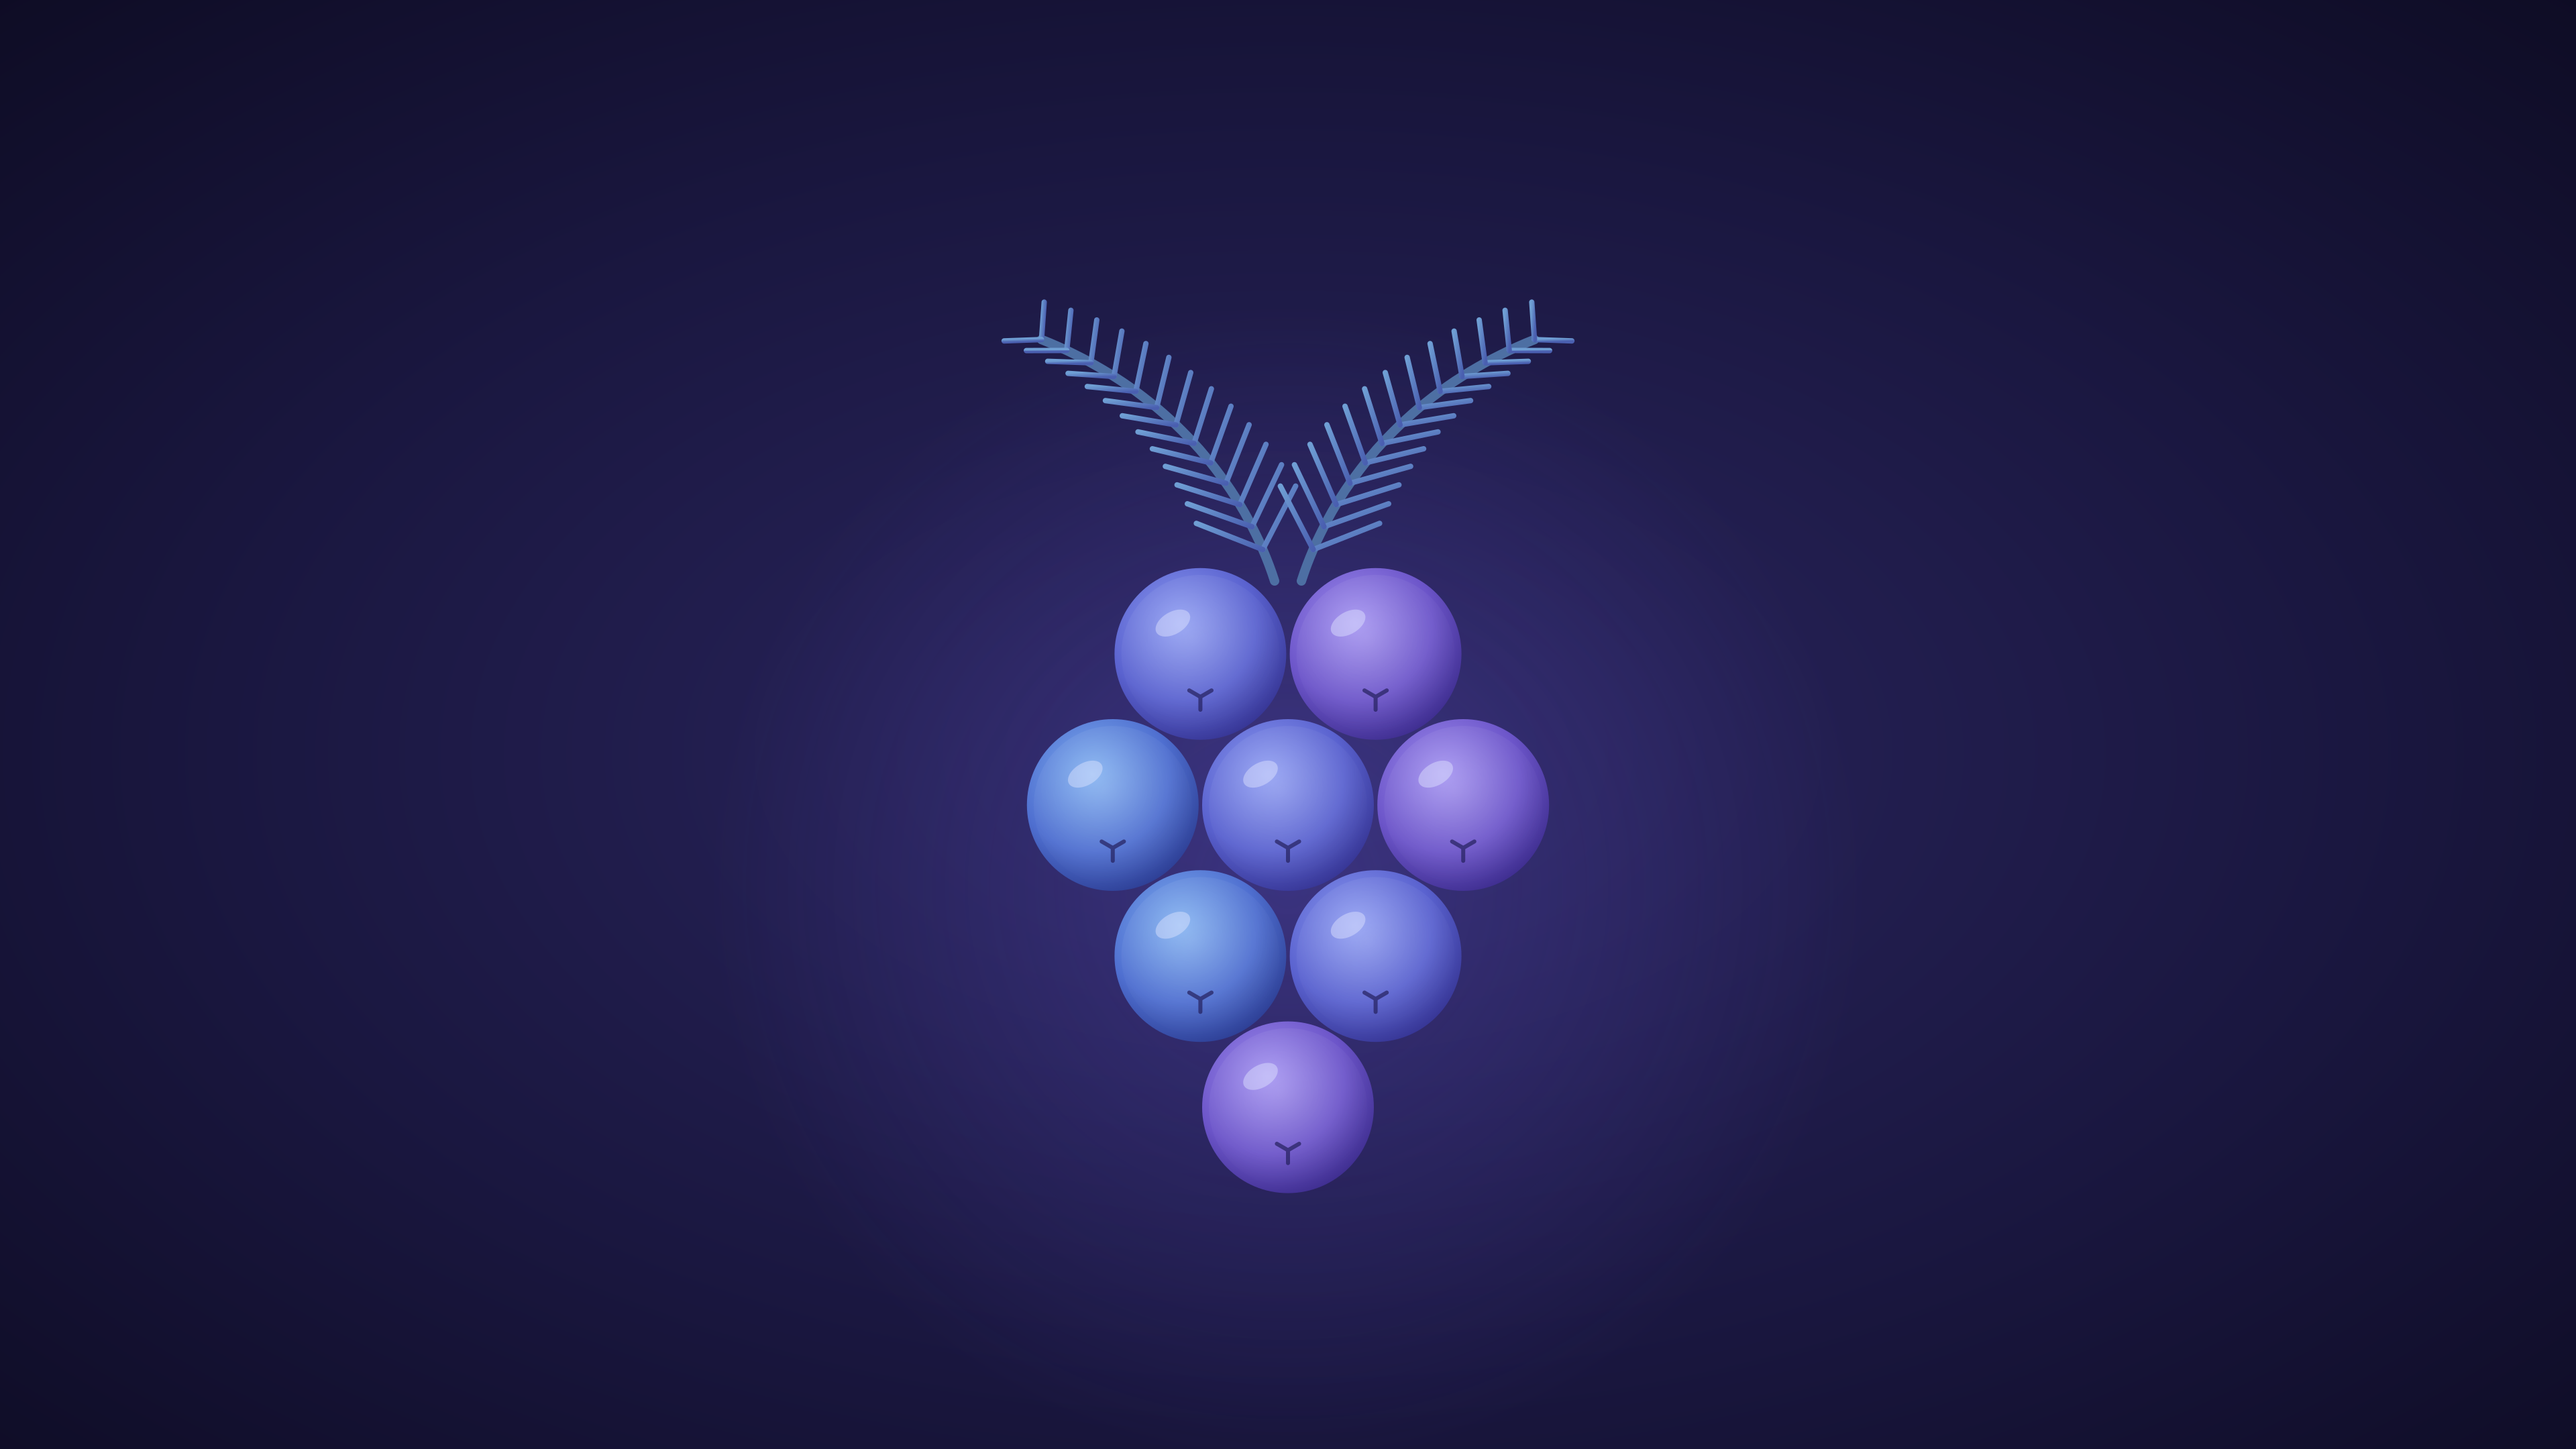
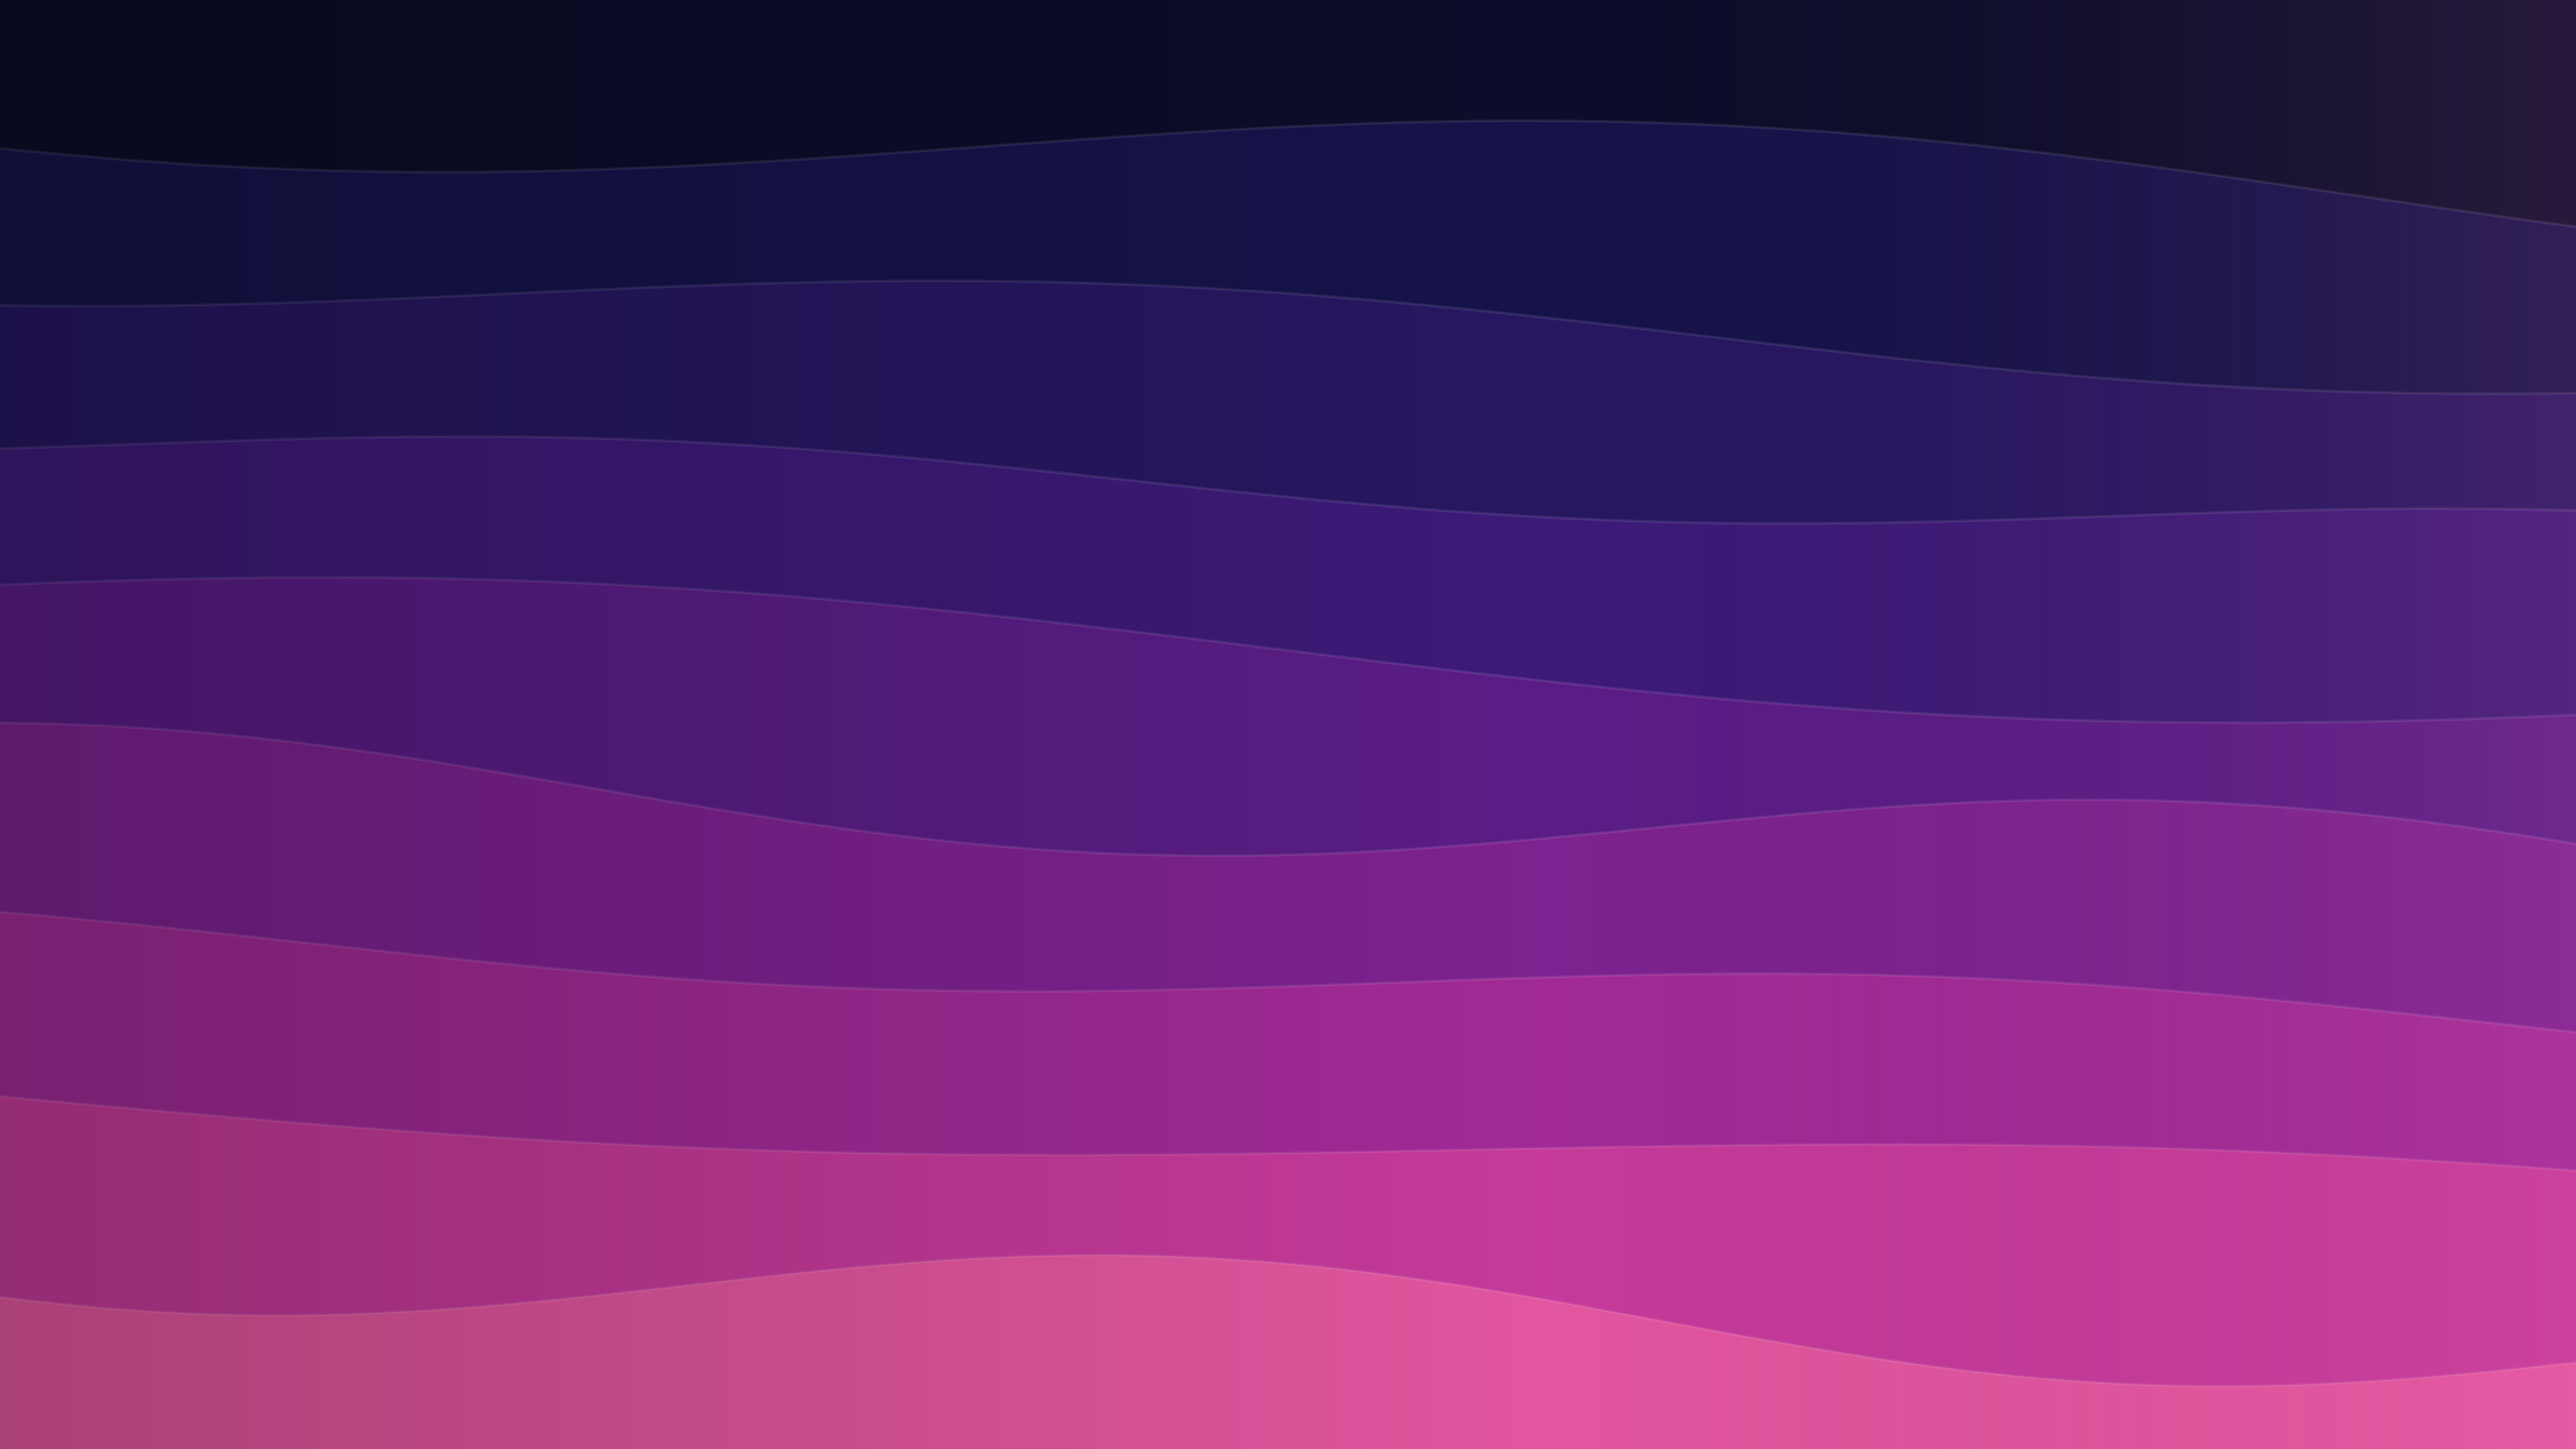
feat: stratified navy-to-pink gradient wallpaper for juniper-desktop (#114)
* fix: metrics stop filling the audit log with SELinux denials

juniper-metrics ran `bootc status --json` from its script every 5 minutes. Outside install_t,
bootc checks for that domain with chcon on every call, and SELinux logs two mac_admin denials
each time (~1,600 lines on the Pi in three days). A new juniper-bootc-status.service has systemd
run bootc itself, so it starts in install_t; it writes the status to
/run/juniper/bootc-status.json, and juniper-metrics.service pulls it in before each run and reads
that file (asking bootc directly only when run by hand). On the Pi: 0 denials per run, image
metrics unchanged.

Claude-Session: https://claude.ai/code/session_01V2LjcBW679UZTFjj3ymk94

* feat: stratified navy-to-pink gradient wallpaper for juniper-desktop

No logo: gently waving bands stack down the screen from deep navy through violet into pink,
each edged with a faint light line so the gradient reads as layers, with a slight dark-to-pink
sheen across. Chosen on the Pi after several rounds (vaporwave sky, rings, a sprig, the
terminal logo). Same files (juniper-berry.svg/.png), so the greeter, DMS and matugen pick it up
unchanged. Original artwork, CC0-1.0.

Claude-Session: https://claude.ai/code/session_01V2LjcBW679UZTFjj3ymk94

---------

diff --git a/build_files/wallpaper.py b/build_files/wallpaper.py
@@ -1,77 +1,48 @@
 #!/usr/bin/env python3
-"""Draws Juniper's wallpaper (juniper-berry.svg): a juniper berry cluster with needle sprigs in
-blues and purples. `just wallpaper` regenerates the SVG and its 3840x2160 PNG; DMS derives the
-desktop's colours from the PNG (matugen). Original artwork for Juniper, CC0-1.0."""
+"""Draws Juniper's wallpaper (juniper-berry.svg): a stratified gradient. Gently waving bands
+stack down the screen, from deep navy at the top through violet into pink, each with a faint
+lighter edge, so the gradient reads as layers. `just wallpaper` regenerates the SVG and its
+3840x2160 PNG; DMS derives the desktop's colours from the PNG (matugen). Original artwork for
+Juniper, CC0-1.0."""
 import math
 
 W, H = 1920, 1080
-CX, CY = 960, 600
-R = 64
+# Top to bottom: each band's colour; band k's top edge sits lower and waves a little differently
+BANDS = ("#0b0d2a", "#16134a", "#271761", "#3d1a78", "#5a1d86", "#7d2290",
+         "#a12a96", "#c53a9a", "#e2569f")
 
 
-def berry_positions():
-    pos = []
-    for n, dy in ((2, -1), (3, 0), (2, 1)):
-        for i in range(n):
-            pos.append((CX + (i - (n - 1) / 2) * 2 * R * 1.02, CY + dy * R * 1.76))
-    pos.append((CX, CY + 2 * R * 1.76))
-    return pos
-
-
-def berry(x, y, i):
-    s = f'<g transform="translate({x:.1f},{y:.1f})">'
-    s += f'<circle r="{R}" fill="url(#b{i % 3})"/>'
-    s += f'<circle r="{R * 0.92:.1f}" fill="url(#bloom)"/>'
-    hx, hy = -R * 0.32, -R * 0.36
-    s += (f'<ellipse cx="{hx:.1f}" cy="{hy:.1f}" rx="{R * 0.22:.1f}" ry="{R * 0.13:.1f}" '
-          f'fill="#dfe4ff" opacity="0.45" transform="rotate(-30 {hx:.1f} {hy:.1f})"/>')
-    # The three-pointed scar at a juniper berry's tip
-    s += '<g stroke="#241f5c" stroke-width="3" stroke-linecap="round" opacity="0.7">'
-    for k in range(3):
-        a = math.radians(90 + 120 * k)
-        s += (f'<line x1="0" y1="{R * 0.5:.1f}" x2="{R * 0.15 * math.cos(a):.1f}" '
-              f'y2="{R * 0.5 + R * 0.15 * math.sin(a):.1f}"/>')
-    return s + "</g></g>"
-
-
-def sprig(x0, y0, ang, length, bend):
-    """A stem curving by `bend` degrees, with needles in pairs along it."""
+def edge(k):
+    """Band k's top edge: a gentle wave, tilted slightly down to the right."""
+    n = len(BANDS)
+    base = H * (k / n) * 1.02 - 40
+    amp = 26 + 10 * math.sin(k * 1.7)
+    freq = 1.1 + 0.25 * math.cos(k * 2.3)
+    phase = k * 0.9
     pts = []
-    for k in range(41):
-        t = k / 40
-        a = math.radians(ang + bend * t)
-        pts.append((x0 + math.cos(a) * length * t, y0 - math.sin(a) * length * t))
-    out = ['<path d="M' + " L".join(f"{x:.1f},{y:.1f}" for x, y in pts)
-           + '" fill="none" stroke="#4d6fa3" stroke-width="7" stroke-linecap="round"/>']
-    for k in range(4, 41, 3):
-        x, y = pts[k]
-        t = k / 40
-        a = ang + bend * t
-        nl = 56 * (1 - 0.5 * t)
-        for side in (-1, 1):
-            b = math.radians(a + side * 48)
-            out.append(f'<line x1="{x:.1f}" y1="{y:.1f}" x2="{x + math.cos(b) * nl:.1f}" '
-                       f'y2="{y - math.sin(b) * nl:.1f}" stroke="url(#needle)" '
-                       'stroke-width="4" stroke-linecap="round"/>')
-    return "".join(out)
+    for i in range(0, 97):
+        x = W * i / 96
+        y = base + 70 * (x / W) + amp * math.sin(2 * math.pi * freq * x / W + phase)
+        pts.append((x, y))
+    return pts
 
 
-pos = berry_positions()
-top = pos[0][1] - R * 0.85
+layers = []
+for k, colour in enumerate(BANDS):
+    if k == 0:
+        layers.append(f'<rect width="{W}" height="{H}" fill="{colour}"/>')
+        continue
+    pts = edge(k)
+    top = " L".join(f"{x:.1f},{y:.1f}" for x, y in pts)
+    layers.append(f'<path d="M{top} L{W},{H} L0,{H} Z" fill="{colour}"/>')
+    layers.append(f'<path d="M{top}" fill="none" stroke="#ffffff" stroke-opacity="0.09" '
+                  'stroke-width="2"/>')
+
 print(f'''<svg xmlns="http://www.w3.org/2000/svg" viewBox="0 0 {W} {H}" width="{W}" height="{H}">
-<!-- Juniper's wallpaper: a juniper berry cluster. Original artwork for Juniper, CC0-1.0. -->
+<!-- Juniper's wallpaper: a stratified navy-to-pink gradient. Original artwork for Juniper, CC0-1.0. -->
 <defs>
-<radialGradient id="bg" cx="50%" cy="52%" r="75%"><stop offset="0" stop-color="#2b2660"/><stop offset="0.55" stop-color="#1a1740"/><stop offset="1" stop-color="#0d0b22"/></radialGradient>
-<radialGradient id="b0" cx="38%" cy="32%" r="75%"><stop offset="0" stop-color="#8d9cf2"/><stop offset="0.6" stop-color="#5a62cf"/><stop offset="1" stop-color="#33318f"/></radialGradient>
-<radialGradient id="b1" cx="38%" cy="32%" r="75%"><stop offset="0" stop-color="#a08ff0"/><stop offset="0.6" stop-color="#6c55c9"/><stop offset="1" stop-color="#3a2a8a"/></radialGradient>
-<radialGradient id="b2" cx="38%" cy="32%" r="75%"><stop offset="0" stop-color="#7fb0f0"/><stop offset="0.6" stop-color="#4f6fd0"/><stop offset="1" stop-color="#2a3a8f"/></radialGradient>
-<radialGradient id="bloom" cx="45%" cy="40%" r="60%"><stop offset="0" stop-color="#ffffff" stop-opacity="0.16"/><stop offset="1" stop-color="#ffffff" stop-opacity="0"/></radialGradient>
-<linearGradient id="needle" x1="0" y1="0" x2="1" y2="1"><stop offset="0" stop-color="#6f9fd4"/><stop offset="1" stop-color="#4a5fb0"/></linearGradient>
-<radialGradient id="glow" cx="50%" cy="50%" r="50%"><stop offset="0" stop-color="#6c5ce0" stop-opacity="0.28"/><stop offset="1" stop-color="#6c5ce0" stop-opacity="0"/></radialGradient>
+<linearGradient id="sheen" x1="0" y1="0" x2="1" y2="0"><stop offset="0" stop-color="#000000" stop-opacity="0.25"/><stop offset="0.6" stop-color="#000000" stop-opacity="0"/><stop offset="1" stop-color="#ff7ac0" stop-opacity="0.12"/></linearGradient>
 </defs>
-<rect width="{W}" height="{H}" fill="url(#bg)"/>
-<circle cx="{CX}" cy="{CY + 60}" r="430" fill="url(#glow)"/>
-{sprig(CX - 10, top, 108, 250, 26)}
-{sprig(CX + 10, top, 72, 250, -26)}
-{"".join(berry(x, y, i) for i, (x, y) in enumerate(pos))}
+{"".join(layers)}
+<rect width="{W}" height="{H}" fill="url(#sheen)"/>
 </svg>''')

diff --git a/CHANGELOG.md b/CHANGELOG.md
@@ -14,6 +14,7 @@ Unreleased as its release notes, then moves those entries under the release's ta
 
 - `juniper-desktop` (experimental): the session is niri with DankMaterialShell (bar, launcher, notifications, lock, clipboard history, settings), themed from a new Juniper wallpaper, behind DankMaterialShell's graphical login instead of a text prompt. waybar, fuzzel, SwayNotificationCenter and swaylock are gone. DMS's weather and location lookups are off and its update button runs `ujust update`. Your niri changes go in `~/.config/niri/local.kdl`; Juniper's dotfiles are applied with chezmoi at first login and refreshed daily unless you changed them (`ujust dots-reset`, `ujust toggle-auto-dots`); dotfiles you already had are kept (listed in `~/.local/state/juniper/dots-kept`) until `ujust dots-reset`; `ujust desktop-config` is gone
 - `juniper-desktop` (experimental): the keys are zirconium's (Mod+T terminal, Mod+Ctrl+arrows move windows, Mod+1–9 workspaces, Mod+V floating, Mod+Alt+V clipboard history, Mod+Alt+L lock; Mod+Return still opens a terminal), and the key list (Mod+/) shows at each login; windows get zirconium's spacing (16 px gaps), shadow and 6 px corners, and the terminal is see-through (foot `alpha=0.75`)
+- `juniper-desktop`: a new default wallpaper: a stratified gradient, gently waving bands from deep navy through violet into pink; the desktop's colours follow it
 
 ### Fixed
 

diff --git a/docs/superpowers/specs/2026-10-14-dms-desktop-design.md b/docs/superpowers/specs/2026-10-14-dms-desktop-design.md
@@ -134,10 +134,11 @@ fallback is the earlier spec's option 3 (rebuild in our own COPR).
 
 ## Look
 
-- `/usr/share/juniper/wallpapers/juniper-berry.svg`: juniper berry cluster with needle
-  sprigs, flat shapes, blue-violet berries with a dusty bloom, deep indigo background.
-  Original artwork: recognisably a juniper, not a copy of the Raspberry Pi logo (a
-  trademark). A PNG render at 3840x2160 for matugen and the greeter (matugen reads raster).
+- `/usr/share/juniper/wallpapers/juniper-berry.svg`: a stratified gradient: gently waving
+  bands from deep navy at the top through violet into pink, each edged with a faint light
+  line, no logo (changed after the first hardware run; it was a flat blue-violet berry
+  cluster, centred, on indigo). The file keeps its name so nothing that points at it changes.
+  Original artwork. A PNG render at 3840x2160 for matugen and the greeter (matugen reads raster).
 - matugen derives the Material You palette from it at first login (DMS does this; seconds on
   a Pi 5). foot and GTK follow. Greeter shows the same wallpaper.
 
